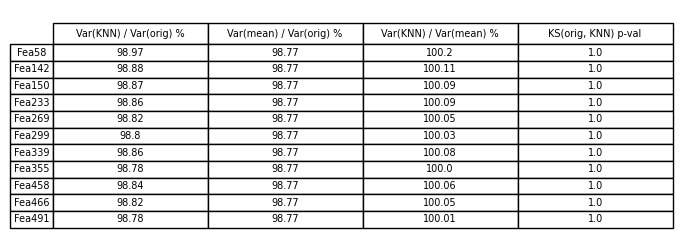
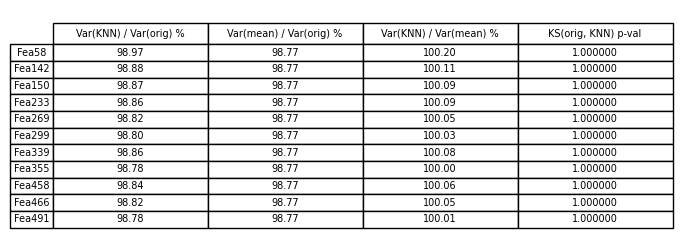
Corrected some formatting.

diff --git a/src/q3/scripts/_q3c.py b/src/q3/scripts/_q3c.py
@@ -24,9 +24,6 @@ def q3c():
         q3a_results['columns_with_nan'],
     )
 
-    # Impute the missing values using KNNImputer, with optimal value computed in q3c_optimise_knn_imputer.py
-    knn_imputer = KNNImputer(n_neighbors=15)
-
     # Also impute the data with a static mean imputation for comparison
     mean_imputer = SimpleImputer(strategy='mean')
 
@@ -64,29 +61,29 @@ def q3c():
 
     # Now we want to analyse how this imputation has affected the data
     analysis = pd.DataFrame(index=columns_with_nan)
-    analysis['Var(KNN) / Var(orig) %'] = 0.0
-    analysis['Var(mean) / Var(orig) %'] = 0.0
-    analysis['Var(KNN) / Var(mean) %'] = 0.0
-    analysis['KS(orig, KNN) p-val'] = 0.5
+    analysis['Var(KNN) / Var(orig) %'] = ''
+    analysis['Var(mean) / Var(orig) %'] = ''
+    analysis['Var(KNN) / Var(mean) %'] = ''
+    analysis['KS(orig, KNN) p-val'] = ''
 
     for c in columns_with_nan:
         orig_data_var = np.var(data[c])
         knn_imputed_data_var = np.var(knn_imputed_data[c])
         mean_imputed_data_var = np.var(mean_imputed_data[c])
 
-        analysis.loc[c, 'Var(KNN) / Var(orig) %'] = (
+        analysis.loc[c, 'Var(KNN) / Var(orig) %'] = f'{(
             knn_imputed_data_var / orig_data_var
-        ) * 100
-        analysis.loc[c, 'Var(mean) / Var(orig) %'] = (
+        ) * 100:.2f}'
+        analysis.loc[c, 'Var(mean) / Var(orig) %'] = f'{(
             mean_imputed_data_var / orig_data_var
-        ) * 100
-        analysis.loc[c, 'Var(KNN) / Var(mean) %'] = (
+        ) * 100:.2f}'
+        analysis.loc[c, 'Var(KNN) / Var(mean) %'] = f'{(
             knn_imputed_data_var / mean_imputed_data_var
-        ) * 100
+        ) * 100:.2f}'
 
-        analysis.loc[c, 'KS(orig, KNN) p-val'] = stats.ks_2samp(
+        analysis.loc[c, 'KS(orig, KNN) p-val'] = f'{stats.ks_2samp(
             data[c], knn_imputed_data[c]
-        ).pvalue
+        ).pvalue:.6f}'
 
     plt.clf()
     fig, ax = plt.subplots(figsize=(8, 3))

diff --git a/src/q3/__main__.py b/src/q3/__main__.py
@@ -1,8 +1,8 @@
 from .scripts import q3a, q3c, q3c_optimise_knn_imputer, q3d, q3e
 
 if __name__ == '__main__':
-    # q3a()
-    # q3c()
-    # q3c_optimise_knn_imputer()
-    # q3d()
+    q3a()
+    q3c()
+    q3c_optimise_knn_imputer()
+    q3d()
     q3e()
